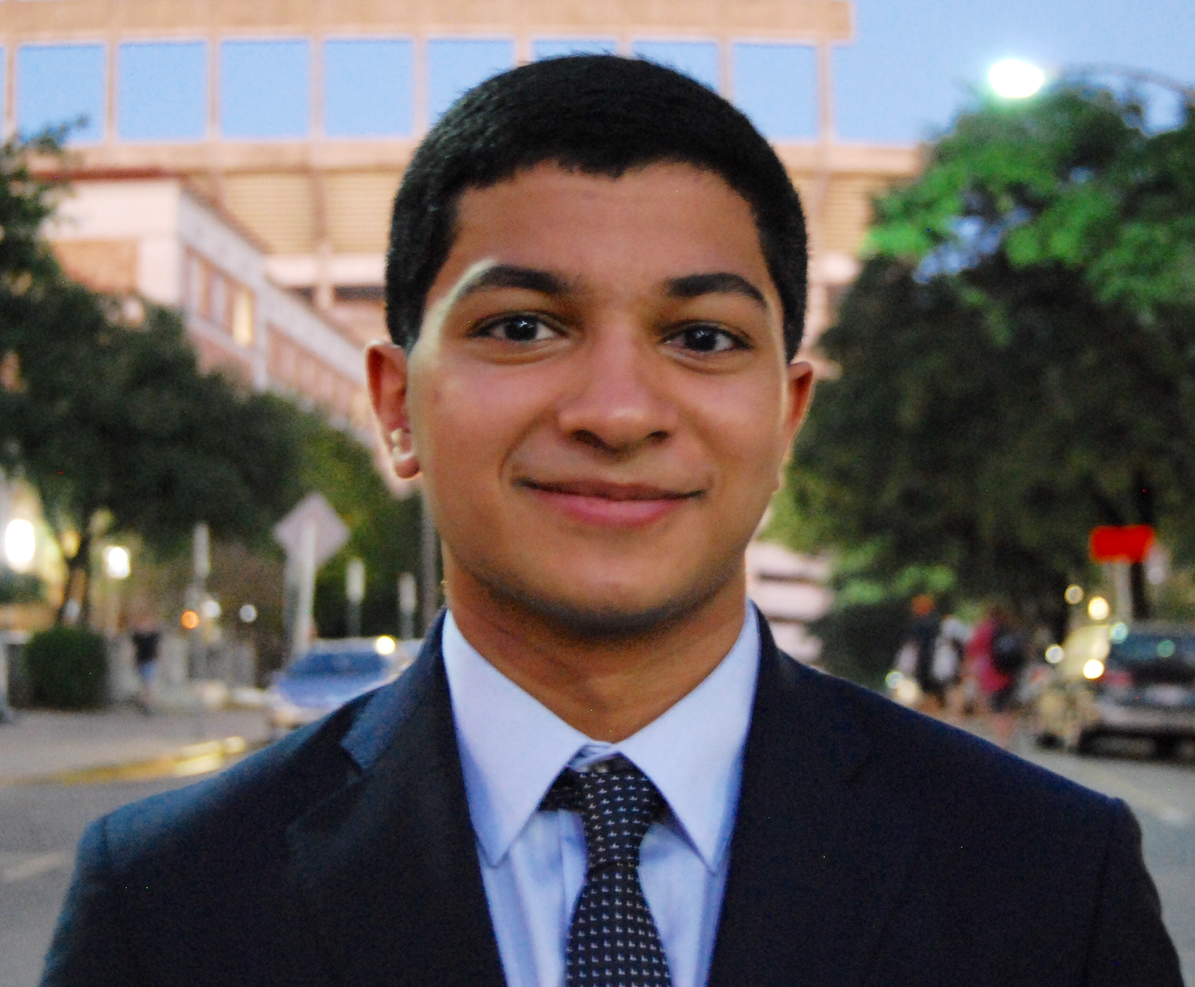
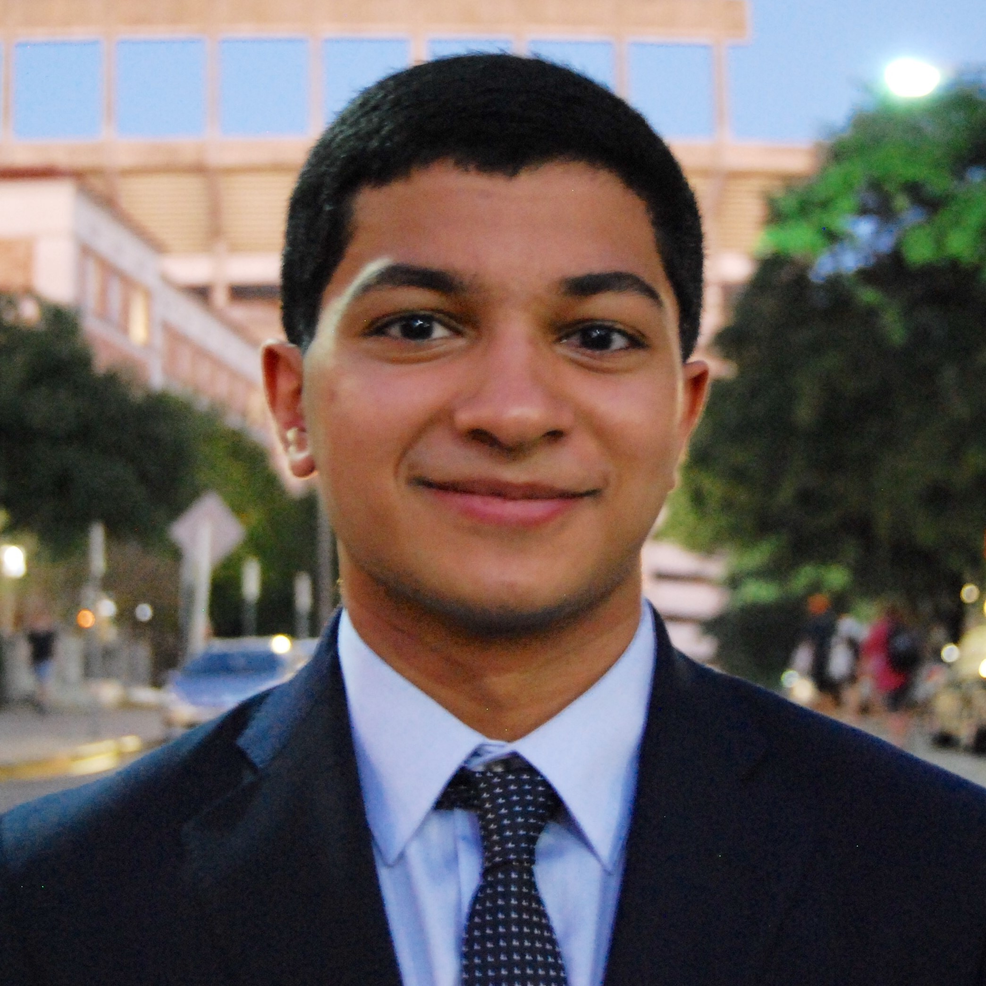
Updated github api call to list more commits

diff --git a/frontend/src/pages/About.js b/frontend/src/pages/About.js
@@ -13,6 +13,7 @@ import alex from '../assets/AlexKim.JPG';
 import manun from '../assets/ManunChopra.jpg';
 import elvin from '../assets/ElvinHung.jpg';
 import nithanth from '../assets/NithanthRam.jpg';
+import rishab from '../assets/RishabChander.JPG';
 import '../styles/About.css';
 import '../styles/GlobalStyles.css';
 
@@ -99,7 +100,7 @@ const About = () => {
       issues: 0,
       tests: 0,
       githubUser: 'rchand20',
-      img: manun,
+      img: rishab,
     },
     {
       name: 'Nithanth Ram',
@@ -152,7 +153,7 @@ const About = () => {
 
   // github api calls for commits and issues
   function getStats() {
-    fetch("https://api.github.com/repos/elvinhung/SoftwareLabApp/commits")
+    fetch("https://api.github.com/repos/elvinhung/SoftwareLabApp/commits?per_page=1000")
       .then((res) => res.json())
       .then((data) => {
         updateStats(data, 'commits');

diff --git a/frontend/src/App.js b/frontend/src/App.js
@@ -11,9 +11,6 @@ import HoxtonHolborn from './pages/HoxtonHolborn';
 import LeonHotel from './pages/LeonHotel';
 import FairmontHeritage from "./pages/FairmontHeritage";
 import Restaurant from './pages/Restaurant';
-import KatzDeli from './pages/KatzDeli';
-import Fitzrovia from './pages/Fitzrovia';
-import Roxie from './pages/Roxie'
 import SF from './pages/SF';
 import NYC from './pages/NYC';
 import LDN from './pages/LDN';
